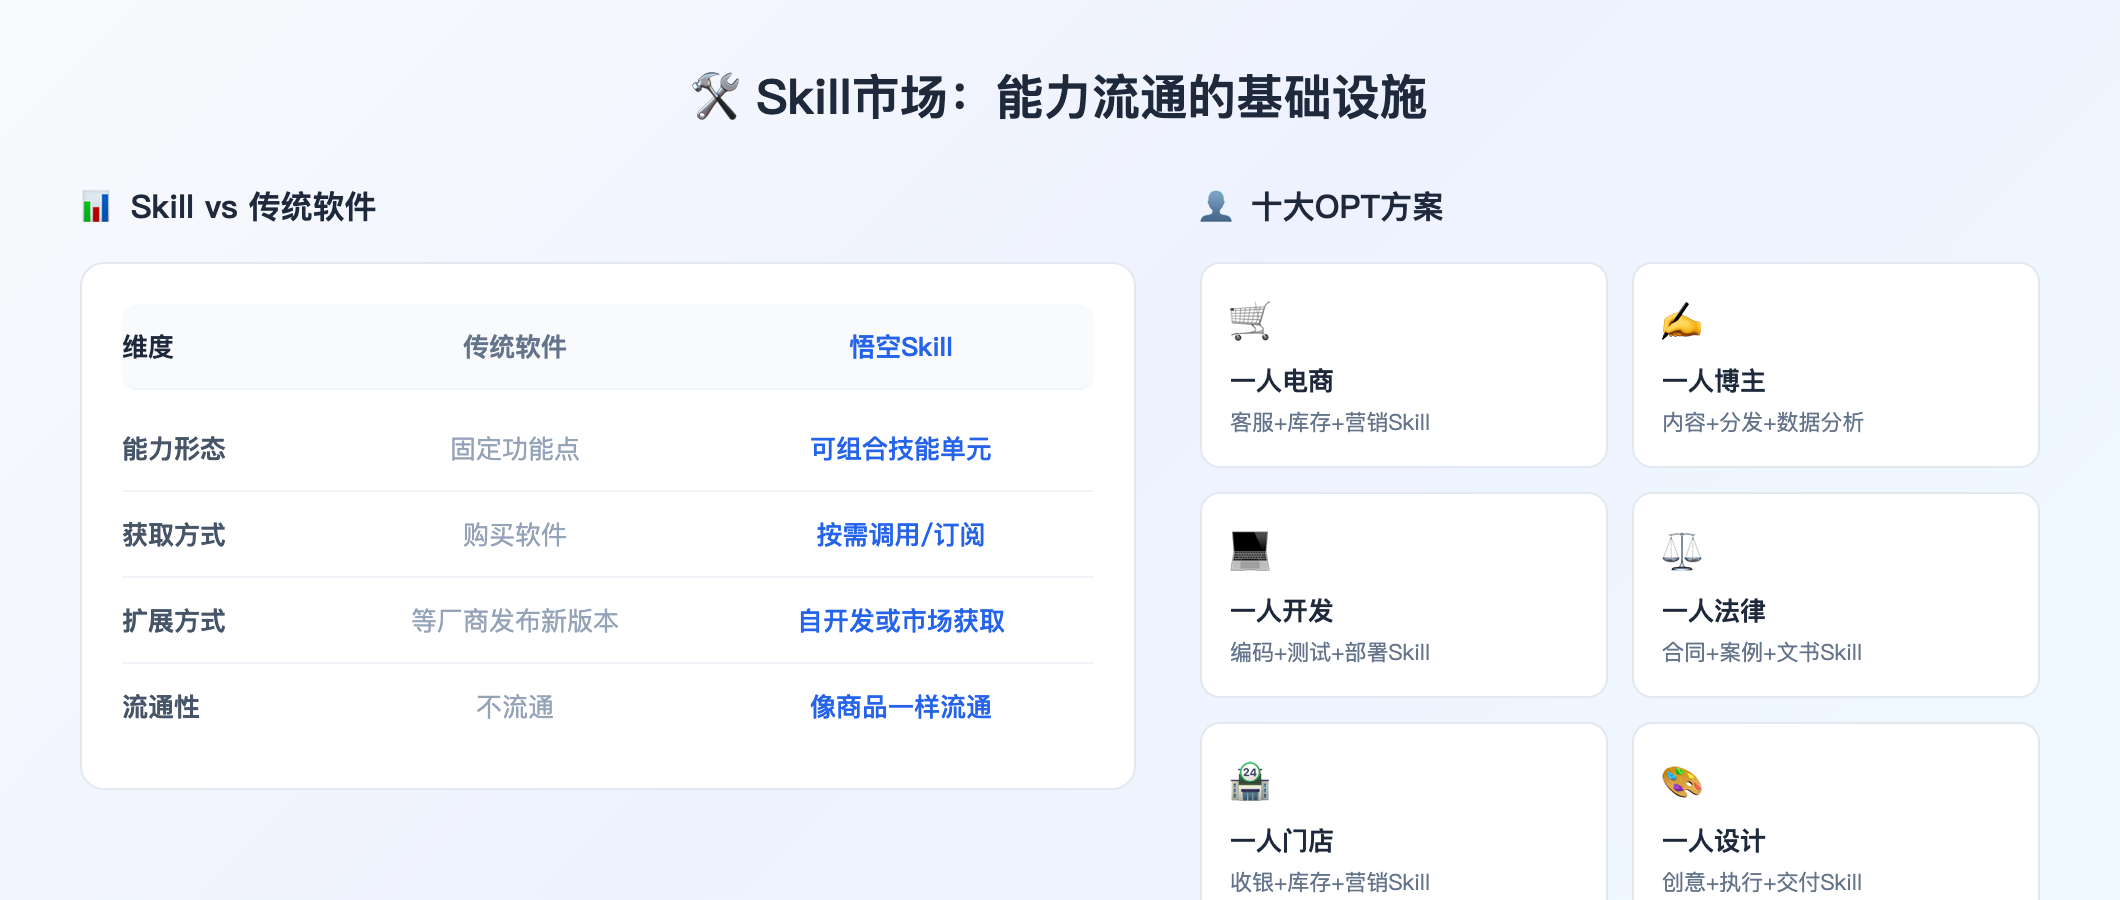
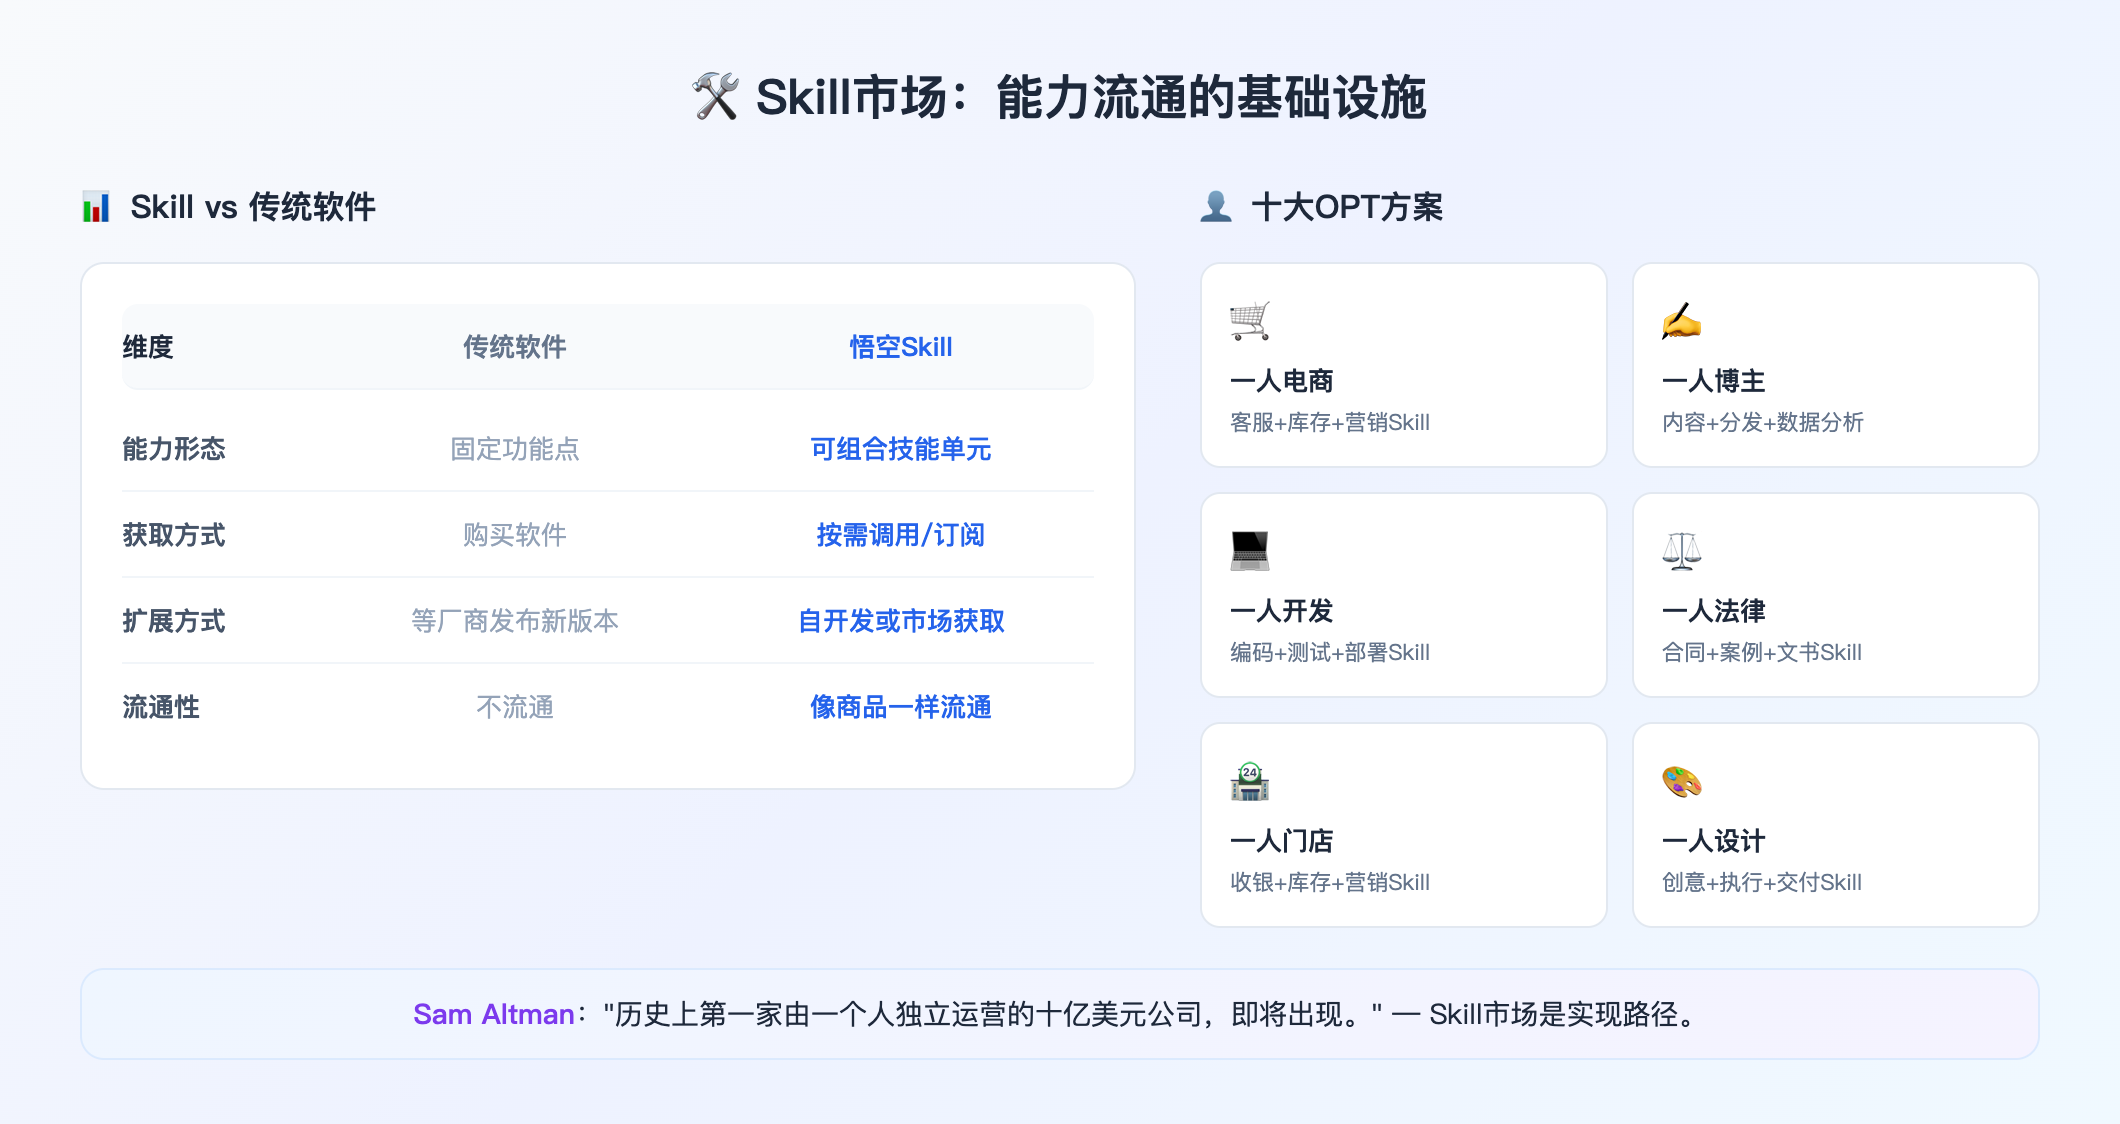
feat: HTML智能截图脚本 - 动态匹配内容高度
核心改进：
1. 新增scripts/screenshot-html.js智能截图脚本
2. HTML文件不再硬编码高度，让内容自然撑开
3. Puppeteer动态获取container实际高度进行截图
4. 确保所有内容完整显示，不再出现截断问题

修复的截图：
- wukong-03-security.png: 500px→629px（显示完整L1-L6 + 底部注释）
- wukong-05-skill-market.png: 450px→562px（显示完整Sam Altman引用）
- 其他5张截图也重新生成，高度动态匹配内容

经验沉淀：
- 截图高度不应硬编码，应由内容决定
- HTML的body/container不设overflow:hidden，让内容自然撑开
- Puppeteer用scrollHeight获取实际内容高度

diff --git a/scripts/screenshot-html.js b/scripts/screenshot-html.js
@@ -1,0 +1,172 @@
+/**
+ * HTML智能截图脚本 - 动态匹配内容高度
+ * 
+ * 核心原理：
+ * 1. HTML文件中不设置固定高度，让内容自然撑开
+ * 2. Puppeteer渲染后动态获取container的实际高度
+ * 3. 根据实际高度进行截图，确保内容完整
+ * 
+ * 使用方式：
+ * node scripts/screenshot-html.js <html目录或单个文件>
+ * 
+ * 示例：
+ * node scripts/screenshot-html.js 02-deep-research/topics/kim-docs/images/
+ * node scripts/screenshot-html.js 02-deep-research/topics/kim-docs/images/wukong-03-security.html
+ */
+
+const puppeteer = require('puppeteer');
+const path = require('path');
+const fs = require('fs');
+
+// 辅助函数：延时
+const delay = ms => new Promise(resolve => setTimeout(resolve, ms));
+
+// 默认配置
+const CONFIG = {
+    width: 1060,           // 固定宽度
+    deviceScaleFactor: 2,  // 2x清晰度
+    padding: 0,            // 额外padding（防止边缘裁切）
+};
+
+async function getContentHeight(page) {
+    // 获取.container元素的实际高度，如果没有则获取body高度
+    return await page.evaluate(() => {
+        const container = document.querySelector('.container');
+        if (container) {
+            return container.scrollHeight;
+        }
+        return document.body.scrollHeight;
+    });
+}
+
+async function screenshotHTML(htmlPath) {
+    const browser = await puppeteer.launch({ headless: 'new' });
+    const page = await browser.newPage();
+    
+    // 先用一个大高度打开页面
+    await page.setViewport({ 
+        width: CONFIG.width, 
+        height: 2000, // 临时大高度
+        deviceScaleFactor: CONFIG.deviceScaleFactor 
+    });
+    
+    const absolutePath = path.resolve(htmlPath);
+    await page.goto('file://' + absolutePath, { waitUntil: 'networkidle0' });
+    await page.evaluate(() => document.fonts.ready);
+    
+    // 动态获取内容实际高度
+    const contentHeight = await getContentHeight(page);
+    const finalHeight = contentHeight + CONFIG.padding;
+    
+    // 重新设置viewport为实际高度
+    await page.setViewport({ 
+        width: CONFIG.width, 
+        height: finalHeight, 
+        deviceScaleFactor: CONFIG.deviceScaleFactor 
+    });
+    
+    // 等待重新渲染
+    await delay(100);
+    
+    // 生成PNG文件路径
+    const pngPath = htmlPath.replace(/\.html$/, '.png');
+    
+    // 截图
+    await page.screenshot({ 
+        path: pngPath, 
+        clip: { 
+            x: 0, 
+            y: 0, 
+            width: CONFIG.width, 
+            height: finalHeight 
+        } 
+    });
+    
+    console.log(`✅ ${path.basename(pngPath)} (${CONFIG.width}x${finalHeight})`);
+    
+    await browser.close();
+    return { path: pngPath, width: CONFIG.width, height: finalHeight };
+}
+
+async function screenshotDirectory(dirPath) {
+    const files = fs.readdirSync(dirPath)
+        .filter(f => f.endsWith('.html'))
+        .map(f => path.join(dirPath, f));
+    
+    console.log(`\n📷 Found ${files.length} HTML files to screenshot\n`);
+    
+    const browser = await puppeteer.launch({ headless: 'new' });
+    const results = [];
+    
+    for (const htmlPath of files) {
+        const page = await browser.newPage();
+        
+        // 先用一个大高度打开页面
+        await page.setViewport({ 
+            width: CONFIG.width, 
+            height: 2000,
+            deviceScaleFactor: CONFIG.deviceScaleFactor 
+        });
+        
+        const absolutePath = path.resolve(htmlPath);
+        await page.goto('file://' + absolutePath, { waitUntil: 'networkidle0' });
+        await page.evaluate(() => document.fonts.ready);
+        
+        // 动态获取内容实际高度
+        const contentHeight = await getContentHeight(page);
+        const finalHeight = contentHeight + CONFIG.padding;
+        
+        // 重新设置viewport为实际高度
+        await page.setViewport({ 
+            width: CONFIG.width, 
+            height: finalHeight, 
+            deviceScaleFactor: CONFIG.deviceScaleFactor 
+        });
+        
+        await delay(100);
+        
+        const pngPath = htmlPath.replace(/\.html$/, '.png');
+        
+        await page.screenshot({ 
+            path: pngPath, 
+            clip: { 
+                x: 0, 
+                y: 0, 
+                width: CONFIG.width, 
+                height: finalHeight 
+            } 
+        });
+        
+        console.log(`✅ ${path.basename(pngPath)} (${CONFIG.width}x${finalHeight})`);
+        results.push({ path: pngPath, width: CONFIG.width, height: finalHeight });
+        
+        await page.close();
+    }
+    
+    await browser.close();
+    console.log(`\n🎉 All ${results.length} screenshots generated!\n`);
+    return results;
+}
+
+async function main() {
+    const target = process.argv[2];
+    
+    if (!target) {
+        console.log('Usage: node screenshot-html.js <html-file-or-directory>');
+        process.exit(1);
+    }
+    
+    const targetPath = path.resolve(target);
+    const stat = fs.statSync(targetPath);
+    
+    if (stat.isDirectory()) {
+        await screenshotDirectory(targetPath);
+    } else if (stat.isFile() && target.endsWith('.html')) {
+        await screenshotHTML(targetPath);
+    } else {
+        console.error('Error: Target must be an HTML file or directory containing HTML files');
+        process.exit(1);
+    }
+}
+
+main().catch(console.error);

diff --git a/02-deep-research/topics/kim-docs/images/wukong-01-positioning.html b/02-deep-research/topics/kim-docs/images/wukong-01-positioning.html
@@ -6,13 +6,12 @@
         * { margin: 0; padding: 0; box-sizing: border-box; }
         html, body { 
             width: 1060px; 
-            height: 400px; 
-            overflow: hidden; 
+            margin: 0;
+            padding: 0;
             font-family: -apple-system, "SF Pro Display", "Noto Sans SC", sans-serif;
         }
         .container {
             width: 1060px;
-            height: 400px;
             background: linear-gradient(135deg, #f8fafc 0%, #eef2ff 50%, #f0f9ff 100%);
             padding: 40px;
             display: flex;

diff --git a/02-deep-research/topics/kim-docs/images/wukong-03-security.html b/02-deep-research/topics/kim-docs/images/wukong-03-security.html
@@ -6,13 +6,12 @@
         * { margin: 0; padding: 0; box-sizing: border-box; }
         html, body { 
             width: 1060px; 
-            height: 500px; 
-            overflow: hidden; 
+            margin: 0;
+            padding: 0;
             font-family: -apple-system, "SF Pro Display", "Noto Sans SC", sans-serif;
         }
         .container {
             width: 1060px;
-            height: 500px;
             background: linear-gradient(135deg, #f8fafc 0%, #eef2ff 50%, #f0f9ff 100%);
             padding: 32px 40px;
         }

diff --git a/02-deep-research/topics/kim-docs/images/wukong-04-realdoc.html b/02-deep-research/topics/kim-docs/images/wukong-04-realdoc.html
@@ -6,13 +6,12 @@
         * { margin: 0; padding: 0; box-sizing: border-box; }
         html, body { 
             width: 1060px; 
-            height: 450px; 
-            overflow: hidden; 
+            margin: 0;
+            padding: 0;
             font-family: -apple-system, "SF Pro Display", "Noto Sans SC", sans-serif;
         }
         .container {
             width: 1060px;
-            height: 450px;
             background: linear-gradient(135deg, #f8fafc 0%, #eef2ff 50%, #f0f9ff 100%);
             padding: 32px 40px;
         }

diff --git a/02-deep-research/topics/kim-docs/images/wukong-05-skill-market.html b/02-deep-research/topics/kim-docs/images/wukong-05-skill-market.html
@@ -6,13 +6,12 @@
         * { margin: 0; padding: 0; box-sizing: border-box; }
         html, body { 
             width: 1060px; 
-            height: 450px; 
-            overflow: hidden; 
+            margin: 0;
+            padding: 0;
             font-family: -apple-system, "SF Pro Display", "Noto Sans SC", sans-serif;
         }
         .container {
             width: 1060px;
-            height: 450px;
             background: linear-gradient(135deg, #f8fafc 0%, #eef2ff 50%, #f0f9ff 100%);
             padding: 32px 40px;
         }

diff --git a/02-deep-research/topics/kim-docs/images/wukong-06-comparison.html b/02-deep-research/topics/kim-docs/images/wukong-06-comparison.html
@@ -6,13 +6,12 @@
         * { margin: 0; padding: 0; box-sizing: border-box; }
         html, body { 
             width: 1060px; 
-            height: 500px; 
-            overflow: hidden; 
+            margin: 0;
+            padding: 0;
             font-family: -apple-system, "SF Pro Display", "Noto Sans SC", sans-serif;
         }
         .container {
             width: 1060px;
-            height: 500px;
             background: linear-gradient(135deg, #f8fafc 0%, #eef2ff 50%, #f0f9ff 100%);
             padding: 32px 40px;
         }

diff --git a/02-deep-research/topics/kim-docs/images/wukong-07-trends.html b/02-deep-research/topics/kim-docs/images/wukong-07-trends.html
@@ -6,13 +6,12 @@
         * { margin: 0; padding: 0; box-sizing: border-box; }
         html, body { 
             width: 1060px; 
-            height: 380px; 
-            overflow: hidden; 
+            margin: 0;
+            padding: 0;
             font-family: -apple-system, "SF Pro Display", "Noto Sans SC", sans-serif;
         }
         .container {
             width: 1060px;
-            height: 380px;
             background: linear-gradient(135deg, #f8fafc 0%, #eef2ff 50%, #f0f9ff 100%);
             padding: 32px 40px;
         }

diff --git a/02-deep-research/topics/kim-docs/images/wukong-02-paradigm-shift.html b/02-deep-research/topics/kim-docs/images/wukong-02-paradigm-shift.html
@@ -6,13 +6,12 @@
         * { margin: 0; padding: 0; box-sizing: border-box; }
         html, body { 
             width: 1060px; 
-            height: 450px; 
-            overflow: hidden; 
+            margin: 0;
+            padding: 0;
             font-family: -apple-system, "SF Pro Display", "Noto Sans SC", sans-serif;
         }
         .container {
             width: 1060px;
-            height: 450px;
             background: linear-gradient(135deg, #f8fafc 0%, #eef2ff 50%, #f0f9ff 100%);
             padding: 40px;
         }
